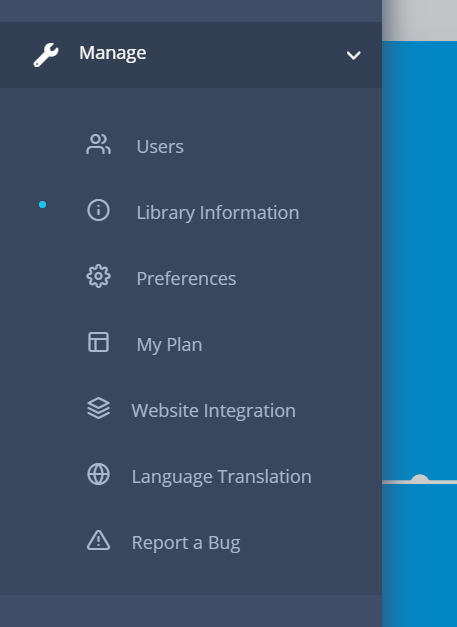
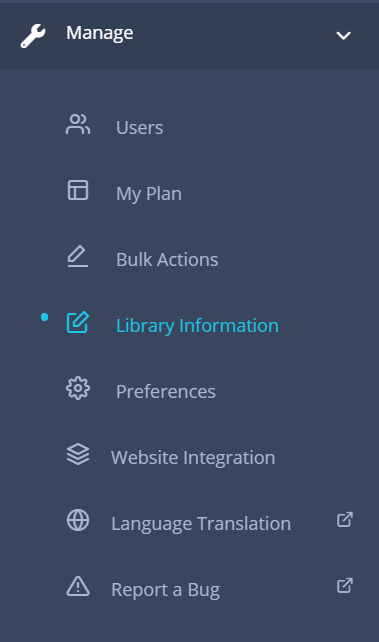
Refactor the update payment section and some images

diff --git a/docs/libraries.md b/docs/libraries.md
@@ -202,14 +202,12 @@ For premium libraries, the payment method is charged automatically when the annu
 
 You can change the payment information anytime. Please follow the below steps:
 
-* Please go to [https://2co.com](https://2co.com).
-* Then Click on the `Login` icon on the right to the 2checkout page.
-* A **2CO- Customer Area** page will be appeared like below.
+* At first please go to `Dashboard -> Manage -> My Plan` section.
+* Then in the **Billing Information** section you will find Payment Method, please click on Access Order as shown below.
 
-	![2co my account form](img/2co-myAccount-form.png)
+	![Billing info form](img/update-billing-info.png)
 
-* Now create an account with your order number or email address that was used during the purchase.
-* Then you can update your credit card information.
+* You will redirect to 2checkout.com where you can update your payment information if necessary.
 * When your current subscription expires, the system will automatically charge the credit card listed in your order profile and then generate an invoice.
 
 
@@ -234,7 +232,7 @@ Note: If you are on any paid plan (Premium Plan or E-Book Plan), please let us k
 
 	![Library information menu](img/library-information-menu.png)
 
-* Click on the `Remove Library` Tab .
+* Click on the `Remove Library` Tab.
 	
 	![Remove library tab](img/remove-library-tab.png)
 
